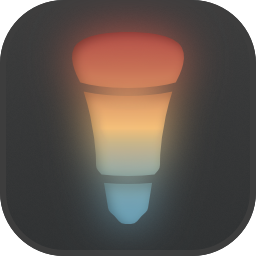
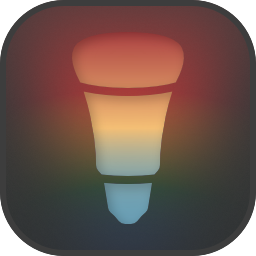
Patch 0.5.2

diff --git a/app/huefx.js b/app/huefx.js
@@ -505,19 +505,22 @@ class Light {
 
           <form class="options">
 
-            <div class="option option-bri">
+            <div class="option option-bri"
+            title="The maximum brightness for this light.">
               <label class="option-name">Brightness:</label>
               <input type="range"  min="0" max="254" step="1" value="${this.bri}">
               <input type="number" min="0" max="254" step="1" value="${this.bri}">
             </div>
 
-            <div class="option option-spd">
+            <div class="option option-spd"
+            title="The time (in seconds) for this light to complete the color sequence.">
               <label class="option-name">Speed:</label>
               <input type="range"  min="${this.colors.length}" max="240" step="1" value="${this.spd}">
               <input type="number" min="${this.colors.length}" max="240" step="1" value="${this.spd}">
             </div>
 
-            <div class="option option-dir" style="justify-content:flex-start;">
+            <div class="option option-dir" style="justify-content:flex-start;"
+            title="How this light will move through the color gradient.">
               <label class="option-name">Motion:</label>
               <div style="width:60%;display:flex;margin:0 8px;">
                 <label class="radio left ${this.dir == 'forward' ? 'enabled' : ''}">Forward
@@ -532,25 +535,29 @@ class Light {
               </div>
             </div>
 
-            <div class="option option-asm">
+            <div class="option option-asm"
+            title="Filters out rapid flickering from audio volume.\nNote: this value is shared across all lights.">
               <label class="option-name">Smoothing:</label>
               <input type="range"  min="0.7" max="0.99" step="0.01" value="${this.asm}">
               <input type="number" min="0.7" max="0.99" step="0.01" value="${this.asm}">
             </div>
 
-            <div class="option option-vsm">
+            <div class="option option-vsm"
+            title="Filters out rapid flickering from video color.\nNote: this value is shared across all lights.">
               <label class="option-name">Smoothing:</label>
               <input type="range"  min="0" max="0.95" step="0.05" value="${this.vsm}">
               <input type="number" min="0" max="0.95" step="0.05" value="${this.vsm}">
             </div>
 
-            <div class="option option-vol">
+            <div class="option option-vol"
+            title="The volume required for a light to hit its maximum.\nNote: this value is shared across all lights.">
               <label class="option-name">Volume:</label>
               <input type="range"  min="0" max="100" step="1" value="${this.vol}">
               <input type="number" min="0" max="100" step="1" value="${this.vol}">
             </div>
 
-            <div class="option option-reg" style="justify-content:flex-start;">
+            <div class="option option-reg" style="justify-content:flex-start;"
+            title="The region of the screen this light will use to determine color.">
               <label class="option-name">Region:</label>
               <div style="width:60%;display:flex;margin:0 8px;">
                 <label class="radio left ${this.reg == 'center' ? 'enabled' : ''}" title="Center">▣
@@ -571,7 +578,8 @@ class Light {
               </div>
             </div>
 
-            <div class="option option-bnd" style="justify-content:flex-start;">
+            <div class="option option-bnd" style="justify-content:flex-start;"
+            title="The frequency band(s) this light will repond to.">
               <label class="option-name">Frequency:</label>
               <div style="width:60%;display:flex;margin:0 8px;">
                 <label class="radio left ${this.bnd == '0' ? 'enabled' : ''}">All
@@ -775,7 +783,8 @@ function initOptions() {
   let min = options.min || 'taskbar';
 
   const elements =
-    `<div class="option option-src" style="justify-content:space-between;">
+    `<div class="option option-src" style="justify-content:space-between;"
+    title="The device audio and video will be read from">
       <label class="option-name">AV Source:</label>
       <div style="width:70%;display:flex;margin-left:8px;">
         <label class="radio left ${src == 'desktop' ? 'enabled' : ''}">Desktop
@@ -787,7 +796,8 @@ function initOptions() {
       </div>
     </div>
 
-    <div class="option option-min" style="justify-content:space-between;">
+    <div class="option option-min" style="justify-content:space-between;"
+    title="Where the window will go on minimize.\nNote: using the Exit button closes the application.">
       <label class="option-name">Minimize:</label>
       <div style="width:70%;display:flex;margin-left:8px;">
         <label class="radio left ${min == 'taskbar' ? 'enabled' : ''}" style="flex-grow:0.5;">Taskbar
@@ -1150,12 +1160,10 @@ async function main() {
         light.playing = false;
         $(this).removeClass('enabled').html('⯈').attr('title', 'Start');
 
-        if (getActiveLights().length == 0) {
-          $('#start-all').removeClass('enabled').html('⯈ Start All');
-        }
+        if (getActiveLights().length == 0) { $('#start-all').removeClass('enabled').html('⯈ Start All') }
+        $('#' + light.id).find('.mode').prop('disabled', false);
 
         switch (light.mode) {
-
           case 'cycle':
             light.stopCycle();
             return;
@@ -1178,12 +1186,10 @@ async function main() {
         }
       }
       else {
-        if (getActiveLights().length == lights.length) {
-          $('#start-all').addClass('enabled').html('■ Stop All');
-        }
+        if (getActiveLights().length == lights.length) { $('#start-all').addClass('enabled').html('■ Stop All') }
+        $('#' + light.id).find('.mode').prop('disabled', true);
 
         switch (light.mode) {
-
           case 'cycle':
             light.playing = true;
             light.startCycle();

diff --git a/app/index.html b/app/index.html
@@ -61,8 +61,8 @@
           <button type="button" id="start-all" class="button-header" style="margin-right:12px;" disabled>⯈ Start All</button>
           <button type="button" id="open-options" class="button-header" style="margin-right:12px;" disabled>Options</button>
           <div style="display:flex;flex-grow:1;margin-right:5px;">
-            <button type="button" id="refresh" class="button-header left">⭮</button>
-            <button type="button" id="exit" class="button-header right">Exit</button>
+            <button type="button" id="refresh" class="button-header left" title="Reload App">⭮</button>
+            <button type="button" id="exit" class="button-header right" title="Close App">Exit</button>
           </div>
 
         </div>
@@ -82,7 +82,6 @@
         <canvas id="canvas-input" width="16" height="9"></canvas>
       </div>
 
-      <p class="cred">Built by <a href="https://bacur.xyz" target="_blank">TF</a></p>
     </div>
   </body>
 </html>

diff --git a/app/style.css b/app/style.css
@@ -294,7 +294,6 @@ select:focus {
   width          : 100%;
   height         : 100%;
   user-select    : none;
-  /* pointer-events : none; */
   backdrop-filter: blur(2px) brightness(0.9);
 }
 
@@ -348,7 +347,6 @@ select:focus {
 .config {
   width            : 100%;
   height           : auto;
-  padding-bottom   : 2px;
   border-top       : 1px solid #3d3d3d;
   background-color : #303233;
   box-shadow       : inset 0px 2px 8px #00000040;
@@ -455,6 +453,7 @@ select:focus {
   text-align  : right;
   font-size   : 15px;
   font-weight : 500;
+  cursor      : help;
 }
 
 input[type=range] {
@@ -549,14 +548,6 @@ input[type=radio] {
   border-left               : none;
   border-top-left-radius    : 0;
   border-bottom-left-radius : 0;
-}
-
-.cred {
-  margin-top    : 4px;
-  margin-bottom : -6px;
-  color         : #303233;
-  text-align    : center;
-  font-size     : 14px;
 }
 
 a {

diff --git a/changelog.md b/changelog.md
@@ -51,6 +51,7 @@
 * Raised min audio smoothing from 0.5 to 0.7
 * Changed audio mode description
 
+
 #### Version 0.5.0:
 + Added light mode 'video'
   + Added region option for center/left/right/top/bottom
@@ -64,3 +65,12 @@
 #### Patch 0.5.1:
 * Fixed animation queuing on dropdowns
 * Fixed clickthrough on blurred background
+
+#### Patch 0.5.2:
++ Added tooltips for most buttons & settings
+- Removed accidental margin on light elements
+- Removed signature
+
+* Updated app icon
+* Fixed tray not working when an effect is active
+* Disabled mode menu when an effect is active
